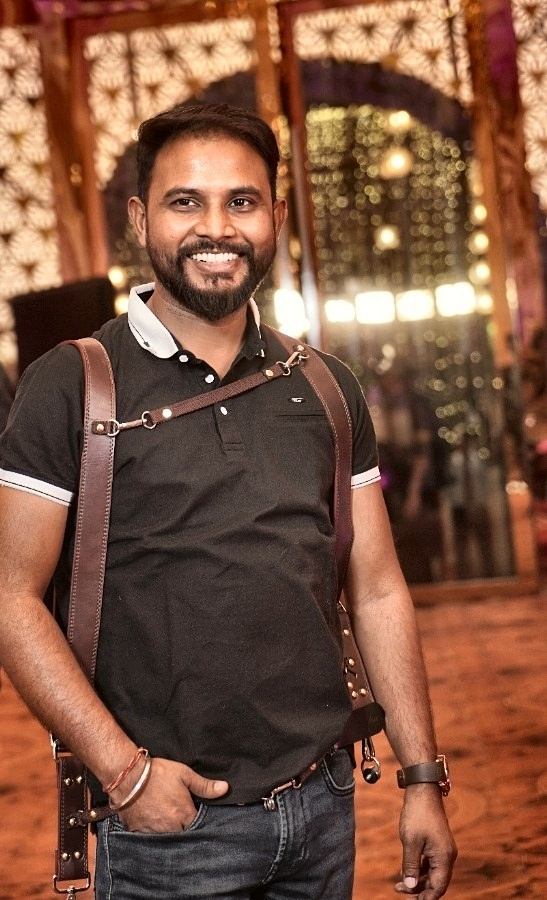
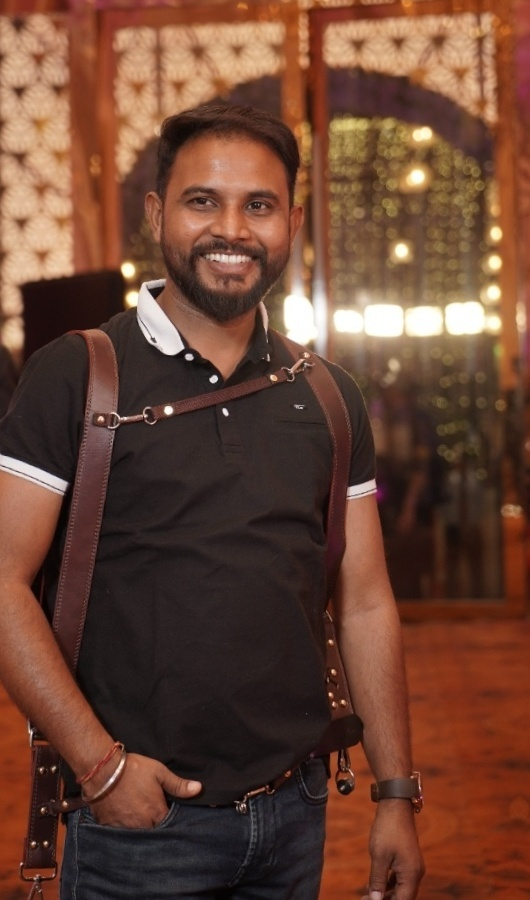
fix(about): perfect vertical straighten, clean crop, and elegant architectural luxury frame

diff --git a/assets/css/style.css b/assets/css/style.css
@@ -3154,84 +3154,39 @@ body.dark-mode .portfolio-nav-playpause {
 }
 
 /* ============================================================
-   LUXURY UI/UX PHOTO FRAME (SONU KUMAR PORTRAIT)
+   LUXURY ARCHITECTURAL PHOTO FRAME (SONU KUMAR PORTRAIT)
    ============================================================ */
-.about-portrait-ui-wrap {
+.about-portrait-card {
   position: relative;
-  display: block;
-  max-width: 440px;
+  max-width: 400px;
   margin: 0 auto;
 }
 
-/* Floating Architectural Gold Offset Frame */
-.about-portrait-offset-frame {
+/* Luxury Architectural Gold Accent Frame */
+.about-portrait-card::before {
+  content: '';
   position: absolute;
-  inset: 16px -16px -16px 16px;
-  border: 1px solid rgba(212, 175, 55, 0.45);
-  border-radius: 4px;
+  inset: 14px -14px -14px 14px;
+  border: 1px solid rgba(201, 162, 39, 0.55);
+  border-radius: 8px;
   pointer-events: none;
-  z-index: 1;
+  z-index: 0;
   transition: transform 0.6s cubic-bezier(0.16, 1, 0.3, 1), border-color 0.4s ease;
 }
 
-.about-portrait-ui-wrap:hover .about-portrait-offset-frame {
-  transform: translate(-4px, 4px);
-  border-color: rgba(212, 175, 55, 0.85);
-}
-
-/* Viewfinder UI Corner Brackets */
-.about-corner-bracket {
-  position: absolute;
-  width: 18px;
-  height: 18px;
-  border-color: var(--g, #D4AF37);
-  pointer-events: none;
-  z-index: 3;
-  opacity: 0.9;
-  transition: all 0.4s ease;
-}
-
-.about-corner-bracket.top-left {
-  top: -8px;
-  left: -8px;
-  border-top: 2px solid var(--g, #D4AF37);
-  border-left: 2px solid var(--g, #D4AF37);
-}
-
-.about-corner-bracket.top-right {
-  top: -8px;
-  right: -8px;
-  border-top: 2px solid var(--g, #D4AF37);
-  border-right: 2px solid var(--g, #D4AF37);
-}
-
-.about-corner-bracket.bottom-left {
-  bottom: -8px;
-  left: -8px;
-  border-bottom: 2px solid var(--g, #D4AF37);
-  border-left: 2px solid var(--g, #D4AF37);
-}
-
-.about-corner-bracket.bottom-right {
-  bottom: -8px;
-  right: -8px;
-  border-bottom: 2px solid var(--g, #D4AF37);
-  border-right: 2px solid var(--g, #D4AF37);
-}
-
-.about-portrait-ui-wrap:hover .about-corner-bracket {
-  opacity: 1;
-  border-color: #F3E5AB;
+.about-portrait-card:hover::before {
+  transform: translate(-3px, 3px);
+  border-color: rgba(201, 162, 39, 0.9);
 }
 
 .about-portrait-frame {
   position: relative;
   overflow: hidden;
   background: #14120F;
-  border-radius: 6px;
-  border: 1px solid rgba(212, 175, 55, 0.35);
-  box-shadow: 0 20px 50px rgba(0, 0, 0, 0.45), 0 0 35px rgba(201, 162, 39, 0.15);
-  z-index: 2;
+  border-radius: 8px;
+  border: 1px solid rgba(255, 255, 255, 0.1);
+  box-shadow: 0 24px 60px rgba(0, 0, 0, 0.6), 0 0 30px rgba(201, 162, 39, 0.12);
+  z-index: 1;
 }
 
 .about-portrait-frame img {
@@ -3239,74 +3194,17 @@ body.dark-mode .portfolio-nav-playpause {
   height: auto;
   display: block;
   object-fit: cover;
-  border-radius: 5px;
+  border-radius: 7px;
   transition: transform 0.8s cubic-bezier(0.16, 1, 0.3, 1);
 }
 
-.about-portrait-ui-wrap:hover .about-portrait-frame img {
+.about-portrait-card:hover .about-portrait-frame img {
   transform: scale(1.025);
 }
 
-/* Floating Glassmorphic Editorial UI Badge */
-.about-portrait-ui-badge {
-  position: absolute;
-  bottom: 14px;
-  left: 14px;
-  right: 14px;
-  background: rgba(18, 16, 14, 0.84);
-  -webkit-backdrop-filter: blur(12px) saturate(160%);
-  backdrop-filter: blur(12px) saturate(160%);
-  border: 1px solid rgba(212, 175, 55, 0.35);
-  border-radius: 8px;
-  padding: 10px 14px;
-  display: flex;
-  flex-direction: column;
-  gap: 2px;
-  box-shadow: 0 10px 24px rgba(0, 0, 0, 0.55);
-  z-index: 4;
-}
-
-.about-ui-badge-header {
-  display: flex;
-  align-items: center;
-  gap: 7px;
-}
-
-.about-ui-badge-dot {
-  width: 6px;
-  height: 6px;
-  border-radius: 50%;
-  background: #25D366;
-  box-shadow: 0 0 8px #25D366;
-  display: inline-block;
-}
-
-.about-ui-badge-title {
-  font-family: var(--font-display, 'Cormorant Garamond', serif);
-  font-size: 15.5px;
-  font-weight: 700;
-  color: #EDE8DE;
-  letter-spacing: 0.8px;
-}
-
-.about-ui-badge-sub {
-  font-family: var(--font-body, 'DM Sans', sans-serif);
-  font-size: 10px;
-  font-weight: 600;
-  color: var(--g, #D4AF37);
-  letter-spacing: 1.2px;
-  text-transform: uppercase;
-}
-
 @media (max-width: 768px) {
-  .about-portrait-offset-frame {
+  .about-portrait-card::before {
     inset: 10px -10px -10px 10px;
-  }
-  .about-portrait-ui-badge {
-    bottom: 10px;
-    left: 10px;
-    right: 10px;
-    padding: 8px 12px;
   }
 }
 

diff --git a/index.html b/index.html
@@ -1627,27 +1627,9 @@
     <div class="nk-about-wrap">
       <!-- Col 1: Founder & Lead Cinematographer Sonu Kumar -->
       <div class="about-portrait-col nkx-rv">
-        <div class="about-portrait-ui-wrap">
-          <!-- Floating Architectural Gold Offset Frame -->
-          <span class="about-portrait-offset-frame" aria-hidden="true"></span>
-          
-          <!-- Viewfinder UI Corner Brackets -->
-          <span class="about-corner-bracket top-left" aria-hidden="true"></span>
-          <span class="about-corner-bracket top-right" aria-hidden="true"></span>
-          <span class="about-corner-bracket bottom-left" aria-hidden="true"></span>
-          <span class="about-corner-bracket bottom-right" aria-hidden="true"></span>
-
+        <div class="about-portrait-card">
           <div class="about-portrait-frame">
             <img src="assets/images/ws_founder_sonu_kumar.webp" alt="Sonu Kumar - Founder &amp; Lead Cinematographer at Wedding Shedding" loading="lazy" decoding="async">
-            
-            <!-- Luxury Floating UI/UX Glassmorphic Badge -->
-            <div class="about-portrait-ui-badge">
-              <div class="about-ui-badge-header">
-                <span class="about-ui-badge-dot"></span>
-                <span class="about-ui-badge-title">Sonu Kumar</span>
-              </div>
-              <span class="about-ui-badge-sub">Founder &middot; Lead Cinematographer</span>
-            </div>
           </div>
         </div>
       </div>
